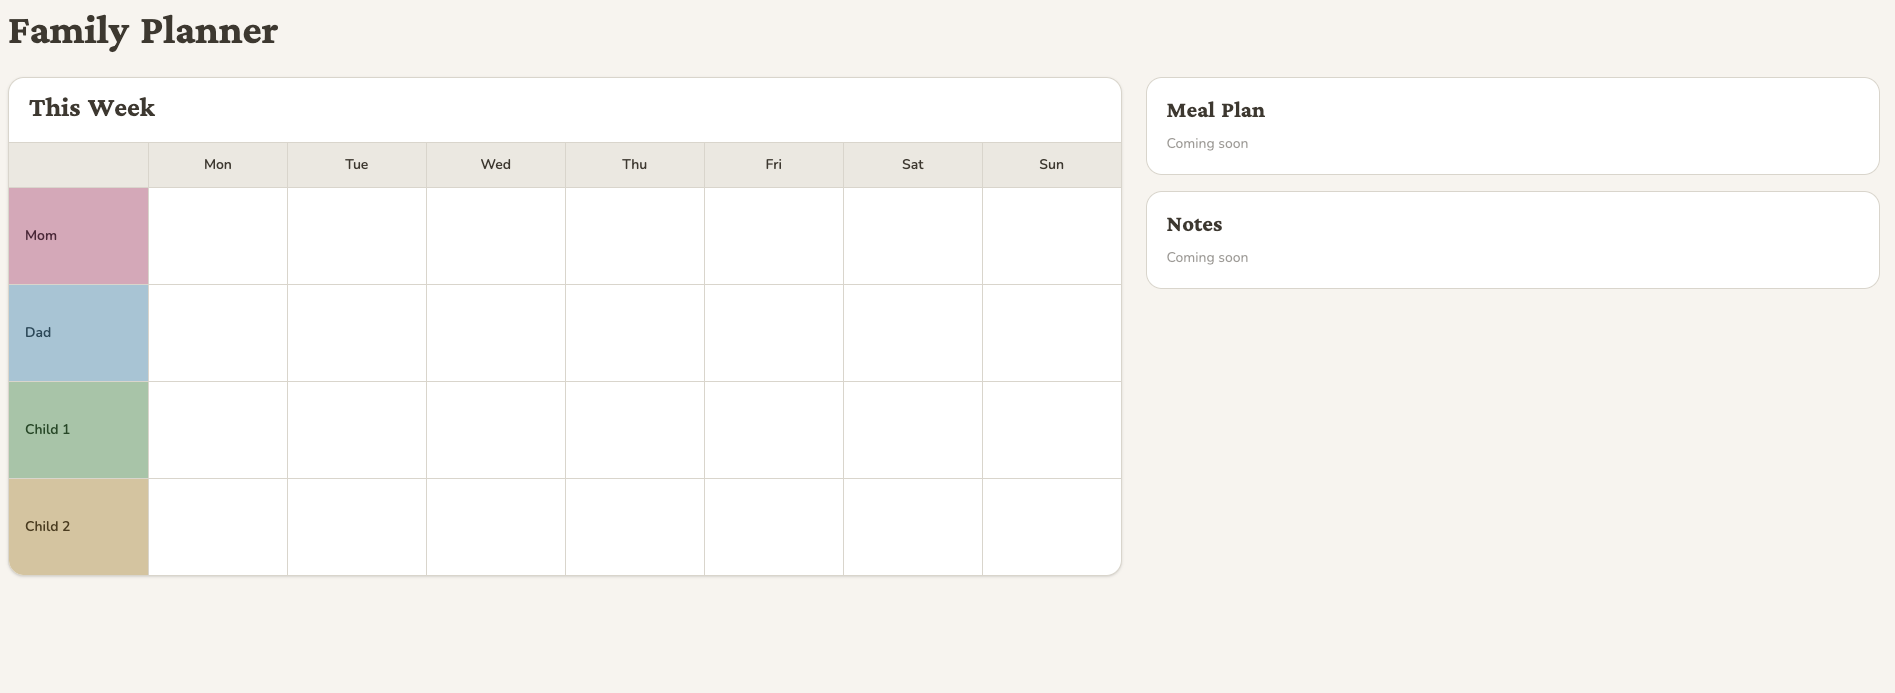
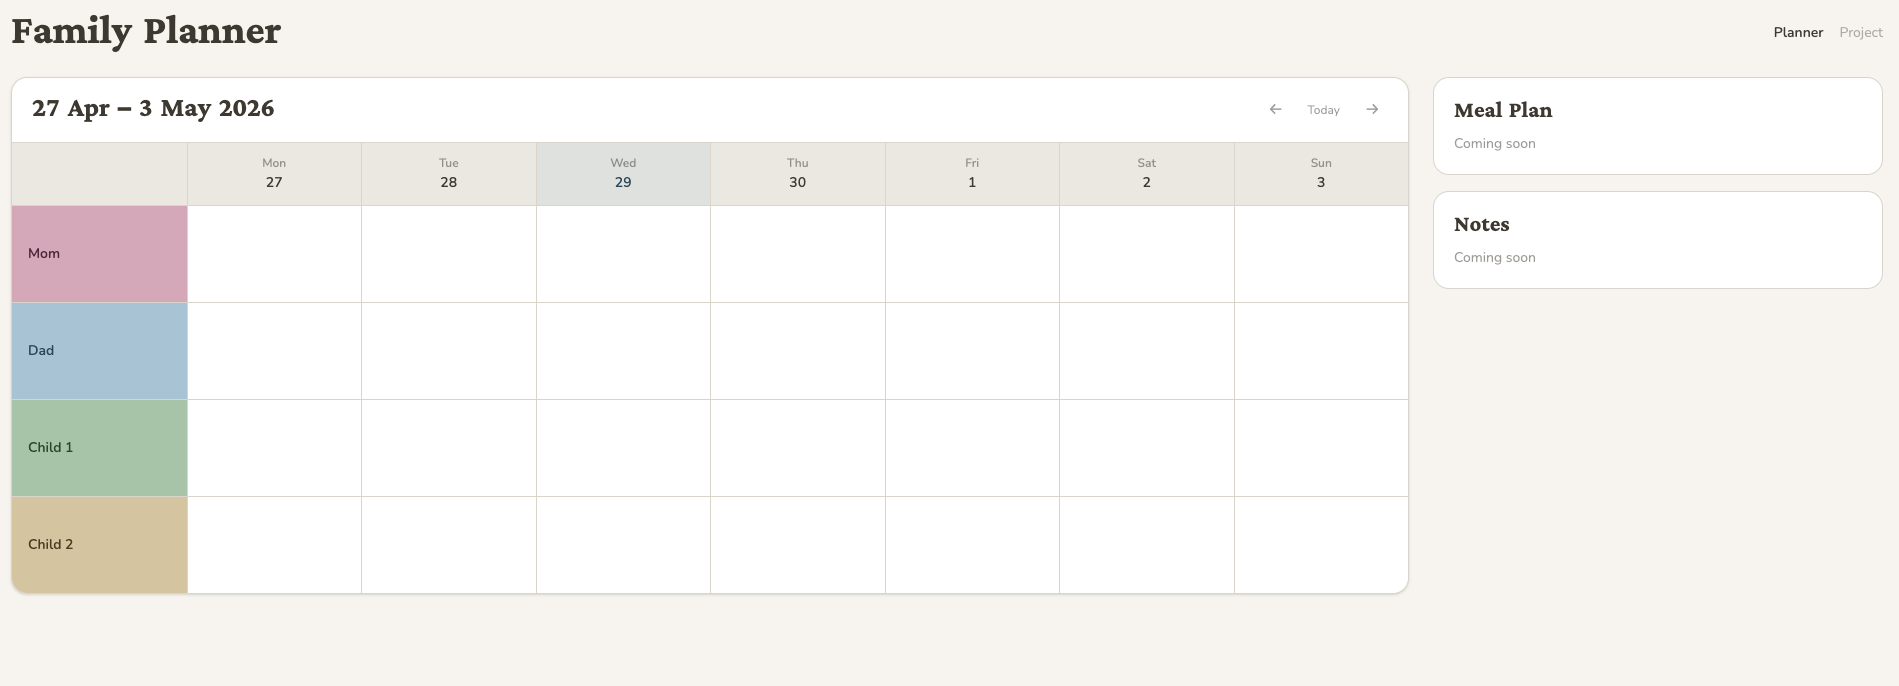
Date Calendar and README update
Actual dates added to the calendar. User can slide between different weeks. The README has been updated with the current features and changes.

diff --git a/src/components/WeeklyCalendar.jsx b/src/components/WeeklyCalendar.jsx
@@ -4,7 +4,8 @@ import DayCell from './DayCell'
 import EventFormModal from './EventFormModal'
 import EventDetailModal from './EventDetailModal'
 
-const DAYS = ['Mon', 'Tue', 'Wed', 'Thu', 'Fri', 'Sat', 'Sun']
+const DAY_NAMES   = ['Mon', 'Tue', 'Wed', 'Thu', 'Fri', 'Sat', 'Sun']
+const MONTH_NAMES = ['Jan', 'Feb', 'Mar', 'Apr', 'May', 'Jun', 'Jul', 'Aug', 'Sep', 'Oct', 'Nov', 'Dec']
 
 const MEMBERS = [
   { name: 'Mom',     bg: 'bg-tab-blossom', text: 'text-tab-blossom-dark' },
@@ -13,18 +14,58 @@ const MEMBERS = [
   { name: 'Child 2', bg: 'bg-tab-wheat',   text: 'text-tab-wheat-dark'   },
 ]
 
+function getWeekStart(date) {
+  const d = new Date(date)
+  d.setHours(0, 0, 0, 0)
+  const offset = (d.getDay() + 6) % 7 // days since Monday
+  d.setDate(d.getDate() - offset)
+  return d
+}
+
+function getWeekDates(weekStart) {
+  return Array.from({ length: 7 }, (_, i) => {
+    const d = new Date(weekStart)
+    d.setDate(d.getDate() + i)
+    return d
+  })
+}
+
+function toDateKey(date) {
+  return date.toISOString().slice(0, 10)
+}
+
+function formatWeekRange(dates) {
+  const first = dates[0]
+  const last  = dates[6]
+  if (first.getMonth() === last.getMonth()) {
+    return `${first.getDate()}–${last.getDate()} ${MONTH_NAMES[first.getMonth()]} ${first.getFullYear()}`
+  }
+  return `${first.getDate()} ${MONTH_NAMES[first.getMonth()]} – ${last.getDate()} ${MONTH_NAMES[last.getMonth()]} ${last.getFullYear()}`
+}
+
+function formatDayLabel(date) {
+  return `${DAY_NAMES[(date.getDay() + 6) % 7]} ${date.getDate()} ${MONTH_NAMES[date.getMonth()]}`
+}
+
 function WeeklyCalendar() {
   const { events, addEvent, updateEvent, deleteEvent } = useEvents()
+  const [weekStart, setWeekStart] = useState(() => getWeekStart(new Date()))
   const [modal, setModal] = useState(null)
+
+  const weekDates = getWeekDates(weekStart)
+  const todayKey  = toDateKey(new Date())
+
+  const shiftWeek = (n) => {
+    const d = new Date(weekStart)
+    d.setDate(d.getDate() + n * 7)
+    setWeekStart(d)
+  }
 
   const closeModal = () => setModal(null)
 
   const handleSave = (eventData) => {
-    if (modal.type === 'add') {
-      addEvent(modal.day, eventData)
-    } else if (modal.type === 'edit') {
-      updateEvent(modal.day, modal.event.id, eventData)
-    }
+    if (modal.type === 'add')  addEvent(modal.day, eventData)
+    if (modal.type === 'edit') updateEvent(modal.day, modal.event.id, eventData)
     closeModal()
   }
 
@@ -36,32 +77,54 @@ function WeeklyCalendar() {
   return (
     <>
       <div className="bg-white rounded-2xl border border-rule shadow-sm overflow-hidden">
-        <div className="px-5 py-4 border-b border-rule">
-          <h2 className="font-display text-2xl text-ink">This Week</h2>
+
+        {/* Header */}
+        <div className="px-5 py-4 border-b border-rule flex items-center justify-between">
+          <h2 className="font-display text-2xl text-ink">{formatWeekRange(weekDates)}</h2>
+          <div className="flex items-center gap-1">
+            <button onClick={() => shiftWeek(-1)} className="w-8 h-8 flex items-center justify-center rounded-lg hover:bg-mist transition-colors text-ink/50 hover:text-ink">←</button>
+            <button onClick={() => setWeekStart(getWeekStart(new Date()))} className="px-3 py-1 text-xs text-ink/50 hover:text-ink hover:bg-mist rounded-lg transition-colors">Today</button>
+            <button onClick={() => shiftWeek(1)}  className="w-8 h-8 flex items-center justify-center rounded-lg hover:bg-mist transition-colors text-ink/50 hover:text-ink">→</button>
+          </div>
         </div>
 
+        {/* Day columns */}
         <div className="grid grid-cols-8 border-b border-rule bg-mist">
           <div className="p-3" />
-          {DAYS.map(day => (
-            <div key={day} className="p-3 text-center text-sm font-semibold text-ink border-l border-rule">
-              {day}
-            </div>
-          ))}
+          {weekDates.map((date) => {
+            const key     = toDateKey(date)
+            const isToday = key === todayKey
+            return (
+              <div key={key} className={`p-3 text-center border-l border-rule ${isToday ? 'bg-tab-sky/20' : ''}`}>
+                <div className="text-xs font-semibold text-ink/50">{DAY_NAMES[(date.getDay() + 6) % 7]}</div>
+                <div className={`text-sm font-semibold mt-0.5 ${isToday ? 'text-tab-sky-dark' : 'text-ink'}`}>{date.getDate()}</div>
+              </div>
+            )
+          })}
         </div>
 
+        {/* Member rows */}
         {MEMBERS.map(member => (
           <div key={member.name} className="grid grid-cols-8 border-b border-rule last:border-b-0">
             <div className={`px-4 py-3 flex items-center font-semibold text-sm ${member.bg} ${member.text}`}>
               {member.name}
             </div>
-            {DAYS.map(day => {
-              const dayEvents = (events[day] ?? []).filter(e => e.members.includes(member.name))
+            {weekDates.map((date) => {
+              const key = toDateKey(date)
+              const dayEvents = (events[key] ?? [])
+                .filter(e => e.members.includes(member.name))
+                .sort((a, b) => {
+                  if (!a.time && !b.time) return 0
+                  if (!a.time) return 1
+                  if (!b.time) return -1
+                  return a.time.localeCompare(b.time)
+                })
               return (
                 <DayCell
-                  key={day}
+                  key={key}
                   events={dayEvents}
-                  onAddClick={() => setModal({ type: 'add', day, member: member.name })}
-                  onEventClick={event => setModal({ type: 'detail', event, day })}
+                  onAddClick={() => setModal({ type: 'add', day: key, dayLabel: formatDayLabel(date), member: member.name })}
+                  onEventClick={event => setModal({ type: 'detail', event, day: key, dayLabel: formatDayLabel(date) })}
                 />
               )
             })}
@@ -71,7 +134,7 @@ function WeeklyCalendar() {
 
       {modal?.type === 'add' && (
         <EventFormModal
-          day={modal.day}
+          day={modal.dayLabel}
           initialMember={modal.member}
           onSave={handleSave}
           onClose={closeModal}
@@ -81,8 +144,8 @@ function WeeklyCalendar() {
       {modal?.type === 'detail' && (
         <EventDetailModal
           event={modal.event}
-          day={modal.day}
-          onEdit={() => setModal({ type: 'edit', event: modal.event, day: modal.day })}
+          day={modal.dayLabel}
+          onEdit={() => setModal({ ...modal, type: 'edit' })}
           onDelete={handleDelete}
           onClose={closeModal}
         />
@@ -90,7 +153,7 @@ function WeeklyCalendar() {
 
       {modal?.type === 'edit' && (
         <EventFormModal
-          day={modal.day}
+          day={modal.dayLabel}
           initialMember={modal.event.members[0]}
           event={modal.event}
           onSave={handleSave}

diff --git a/README.md b/README.md
@@ -16,10 +16,15 @@ A digital take on the wall planning boards popular in Danish homes — a shared,
 ## Features
 
 ### Currently available
-- Weekly calendar with an overview of all 7 days
+- Weekly calendar showing the current week with date-based navigation (previous/next week)
+- Events tied to specific dates — not recurring weekly
+- Add, edit and delete events with title, time, emoji icon, assigned members and notes
+- Events displayed in chronological order within each day
+- Assign an event to multiple family members at once — it appears in all their rows
+- Note indicator on events that have a description
 - Color-coded rows for each family member
+- Today's date highlighted in the calendar
 - Clean, paper-inspired design with a warm color palette
-- [ ] Add, edit and remove events in the calendar
 
 ### Planned
 - [ ] Configurable start day of the week (Monday or Sunday)
@@ -36,6 +41,7 @@ A digital take on the wall planning boards popular in Danish homes — a shared,
 - [React 19](https://react.dev/)
 - [Vite](https://vite.dev/)
 - [Tailwind CSS v4](https://tailwindcss.com/)
+- [React Router v7](https://reactrouter.com/)
 
 ---
 
@@ -69,10 +75,10 @@ I built this project to have something concrete to show during my job search —
 Parts of this project were built with help from Claude (Anthropic) as a pair-programming tool.
 
 AI was used for:
-- brainstorming style like color palette and fonts
 - Setting up Tailwind CSS v4 with Vite
-- Scaffolding the initial component structure
-- Writing boilerplate code (grid layout, placeholder components)
+- Scaffolding the initial component structure and layout
+- Building the event system (localStorage, modals, multi-member support)
+- Implementing date-based week navigation
 
-All architectural decisions, design choices, and feature direction were made by me.
+All feature decisions, design direction, and visual choices were made by me.
 The code has been read, understood, and approved before being committed.
